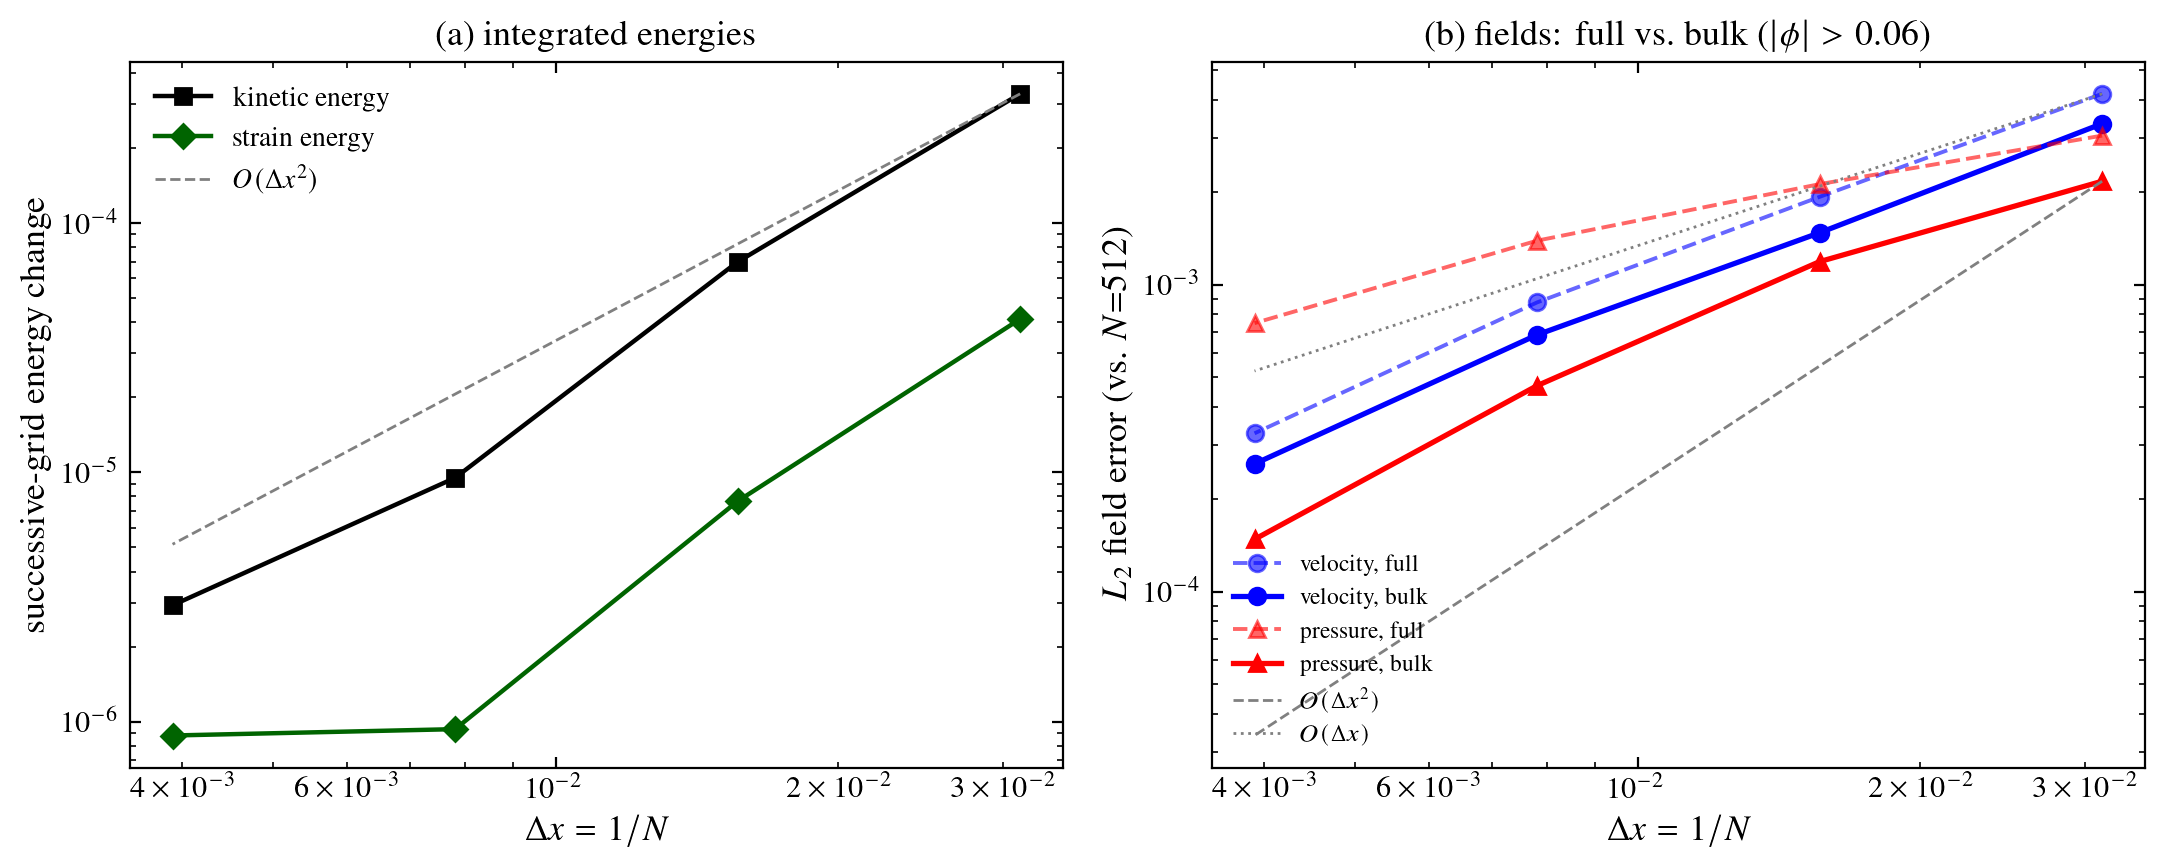
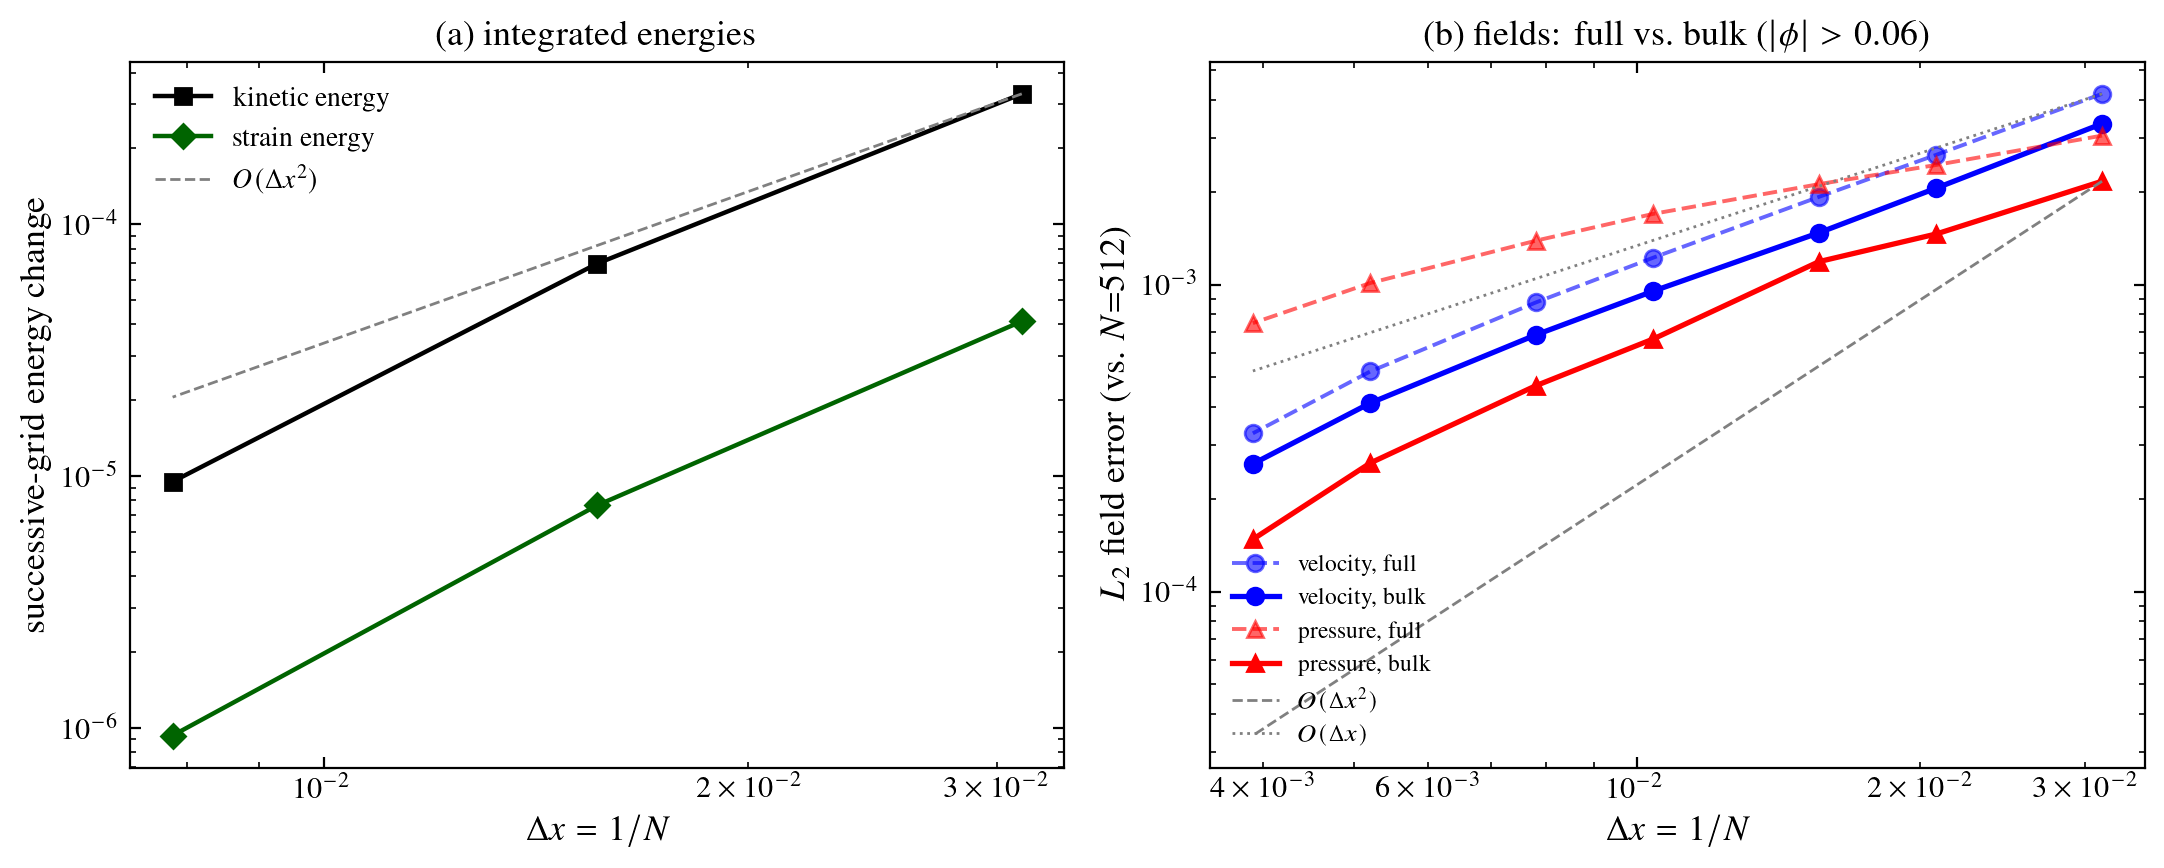
paper: denser field-convergence sweep (7 grids N=32-256 vs N=512 reference)
Added intermediate resolutions 48, 96, 192 to the bulk-convergence study (reusing the cached
N=512 reference; benchmarks/add_convergence_points.py). With seven grids the field panel is now
dense and the split is unambiguous: bulk pressure (|phi|>0.06) reaches order 1.99 on the finest
pair -- second order, confirming its low order is the smeared interfacial jump -- while velocity
bulk and full-domain coincide at ~1.1-1.6 (global, interface-position limited). Energy panel kept
on the power-of-2 successive-grid metric (clean ~2nd order; the extra points floor the energies).
Text updated: bulk pressure ~2.0 vs full ~1.0 over N=32-256.

diff --git a/benchmarks/bulk_convergence.py b/benchmarks/bulk_convergence.py
@@ -55,19 +55,27 @@ def main(recompute=True):
         dv2 = (sp - spref) ** 2; dp2 = (pr - prref) ** 2
         full_v.append(np.sqrt(dv2.mean())); full_p.append(np.sqrt(dp2.mean()))
         bulk_v.append(np.sqrt(dv2[mbulk].mean())); bulk_p.append(np.sqrt(dp2[mbulk].mean()))
-    KEa, SEa = d["KE"], d["SE"]
-    keerr = np.abs(KEa[:-1] - KEa[1:]); seerr = np.abs(SEa[:-1] - SEa[1:])
+    # energies: successive-grid (Richardson) change on the power-of-2 subset, which avoids both the
+    # vs-reference floor and the uneven-spacing noise; the integrated energies are ~2nd order.
+    KE = dict(zip(d["NS"], d["KE"])); SE = dict(zip(d["NS"], d["SE"]))
+    p2 = [N for N in (32, 64, 128, 256) if N in KE]
+    he = np.array([1.0 / N for N in p2[:-1]])
+    eKE = np.array([abs(KE[p2[i]] - KE[p2[i + 1]]) for i in range(len(p2) - 1)])
+    eSE = np.array([abs(SE[p2[i]] - SE[p2[i + 1]]) for i in range(len(p2) - 1)])
+    def _ord(Ns, e):
+        Ns = np.array(Ns); e = np.array(e)
+        return [f"{x:.2f}" for x in np.log(e[:-1] / e[1:]) / np.log(Ns[1:] / Ns[:-1])]
     for nm, e in (("full velocity", full_v), ("bulk velocity", bulk_v),
-                  ("full pressure", full_p), ("bulk pressure", bulk_p),
-                  ("kinetic E", keerr), ("strain E", seerr)):
-        e = np.array(e); o = np.log(e[:-1] / e[1:]) / np.log(np.array(coarse[1:]) / np.array(coarse[:-1]))
-        print(f"  {nm:14s} order {[f'{x:.2f}' for x in o]}", flush=True)
+                  ("full pressure", full_p), ("bulk pressure", bulk_p)):
+        print(f"  {nm:14s} order {_ord(coarse, e)}", flush=True)
+    print(f"  kinetic E      order {_ord(p2[:-1], eKE)}", flush=True)
+    print(f"  strain E       order {_ord(p2[:-1], eSE)}", flush=True)
 
     fig, ax = plt.subplots(1, 2, figsize=(11.0, 4.5))
-    # (a) energies (2nd order)
-    ax[0].loglog(h, keerr, "s-", color="black", lw=1.6, ms=6, label="kinetic energy")
-    ax[0].loglog(h, seerr, "D-", color="darkgreen", lw=1.6, ms=6, label="strain energy")
-    ax[0].loglog(h, keerr[0] * (h / h[0]) ** 2, "--", color="0.5", lw=1.0, label="$O(\\Delta x^2)$")
+    # (a) integrated energies -- second order (successive-grid change)
+    ax[0].loglog(he, eKE, "s-", color="black", lw=1.6, ms=6, label="kinetic energy")
+    ax[0].loglog(he, eSE, "D-", color="darkgreen", lw=1.6, ms=6, label="strain energy")
+    ax[0].loglog(he, eKE[0] * (he / he[0]) ** 2, "--", color="0.5", lw=1.0, label="$O(\\Delta x^2)$")
     ax[0].set_xlabel("$\\Delta x = 1/N$"); ax[0].set_ylabel("successive-grid energy change")
     ax[0].set_title("(a) integrated energies"); ax[0].legend(fontsize=10)
     # (b) fields: full-domain vs bulk (outside a fixed interfacial band |phi|>delta).

diff --git a/benchmarks/add_convergence_points.py b/benchmarks/add_convergence_points.py
@@ -1,0 +1,43 @@
+"""Add intermediate resolutions to the bulk-convergence sweep, reusing the cached N=512 reference
+(outputs/overlay/bulk_conv.npz) so 512 need not be recomputed. Runs the new coarse grids, resamples
+their fields onto the 512 grid, and merges everything back into bulk_conv.npz. Then re-plot with
+`python benchmarks/bulk_convergence.py --plot-only`.
+"""
+import os, sys
+import numpy as np
+sys.path.insert(0, os.path.dirname(os.path.dirname(os.path.abspath(__file__))))
+from benchmarks.viscoelastic_disc_tg import run_one
+from benchmarks.mac_disc_in_tg_convergence import _sample
+ROOT = os.path.dirname(os.path.dirname(os.path.abspath(__file__)))
+SOFT = dict(R=0.15, x0=0.5, y0=0.7, mu_f=0.01, U0=0.3, kw=1)
+NPZ = os.path.join(ROOT, "outputs", "overlay", "bulk_conv.npz")
+NEW = [48, 96, 192]   # fill-in grids, all >=2.6x coarser than the N=512 reference
+
+
+def main():
+    d = dict(np.load(NPZ))
+    g = d["g"]; ref = int(d["ref"])
+    NS_old = list(d["NS"])
+    ke = dict(zip(NS_old, d["KE"])); se = dict(zip(NS_old, d["SE"]))
+    coarse = set(int(x) for x in d["coarse"])
+    for N in NEW:
+        if f"sp_{N}" in d:
+            print(f"  N={N} already present, skipping", flush=True); coarse.add(N); continue
+        r = run_one(N, 0.6, model="maxwell", G_ve=0.1, tau=np.inf, integrator="imex",
+                    scheme="semilagrangian_cubic", mu_s=0.1, history=True, **SOFT)
+        d[f"sp_{N}"] = _sample(r["xc"], r["speed"], g)
+        d[f"pr_{N}"] = _sample(r["xc"], r["p"], g)
+        ke[N] = r["KE"]; se[N] = float(r["hist"]["Eel"][-1]); coarse.add(N)
+        print(f"  N={N} done  KE={ke[N]:.6f} SE={se[N]:.6f}", flush=True)
+    coarse = sorted(coarse)
+    allN = sorted(coarse + [ref])
+    d["coarse"] = np.array(coarse)
+    d["NS"] = np.array(allN)
+    d["KE"] = np.array([ke[N] for N in allN])
+    d["SE"] = np.array([se[N] for N in allN])
+    np.savez(NPZ, **d)
+    print("merged; resolutions now:", allN, flush=True)
+
+
+if __name__ == "__main__":
+    main()

diff --git a/paper/main.tex b/paper/main.tex
@@ -799,9 +799,9 @@ Jain \emph{et al.} The \emph{pointwise fields} are near first order over the ful
 two fields fail second order for different reasons. The \emph{pressure} jump across the interface
 ($[p]=\bm n\!\cdot\!\sig_{\!s}\!\cdot\!\bm n$) is smeared over the ${\sim}2\dx$ blend band, and
 this is a purely \emph{interfacial} error: measured on the bulk---outside a fixed interfacial
-neighbourhood ($|\phi|>0.06$, $95\%$ of the domain)---the pressure recovers toward second order
-(bulk order ${\approx}1.7$ on the finest pair vs.\ ${\approx}0.9$ full-domain,
-\cref{fig:disc-tg-conv}b). The \emph{velocity}, by contrast, stays near first order even in the
+neighbourhood ($|\phi|>0.06$, $95\%$ of the domain)---the pressure recovers to second order
+(bulk order ${\approx}2.0$ on the finest grid pair vs.\ ${\approx}1.0$ full-domain, over seven
+grids $N{=}32$--$256$, \cref{fig:disc-tg-conv}b). The \emph{velocity}, by contrast, stays near first order even in the
 bulk (bulk and full-domain errors nearly coincide): it is limited not by the stress smearing but
 by the captured interface sitting at an $O(\dx)$-different sub-cell position on each grid, which
 shifts the whole incompressible flow at $O(\dx)$. Both effects are intrinsic to the diffuse
